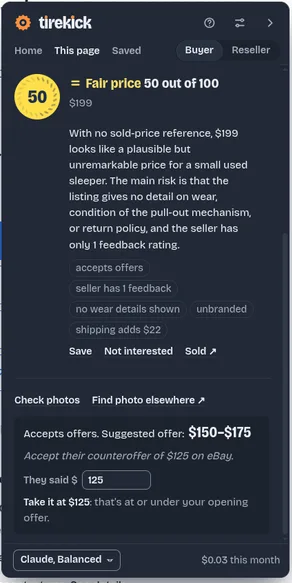
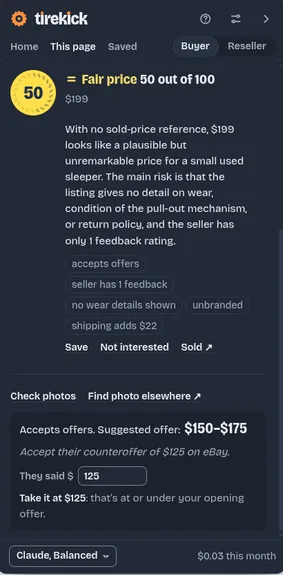
Trim About me and the tagline, drop the fun rule, fix the panel crop, match the buttons
Claude-Session: https://claude.ai/code/session_01XVUCoBzo4LdUY2tYmUbu9p

diff --git a/index.html b/index.html
@@ -34,7 +34,7 @@
         <svg class="db-mark" width="44" height="44" aria-hidden="true"><use href="#mark"/></svg>
         <span>
           <span class="brand-name">dabloonery</span>
-          <span class="brand-sub">small, private software by one developer</span>
+          <span class="brand-sub">small, private software</span>
         </span>
       </a>
       <dl class="banner-stats">
@@ -86,11 +86,9 @@
               <div class="box-body profile">
                 <svg class="db-mark" width="48" height="48" aria-hidden="true"><use href="#mark"/></svg>
                 <div class="profile-text">
-                  <p>I'm one person. I build small software, mostly for myself, and share the ones that hold up. So far that's browser extensions. They run on your computer, don't track you, and the code is open.</p>
-                  <!-- dabloonery: list the actual e-reader and iPod models under "On the shelf" if you want. -->
+                  <p>I build small software, mostly for myself, and share the ones that hold up. So far that's browser extensions. They run on your computer, don't track you, and the code is open.</p>
                   <dl class="profile-facts">
                     <div><dt>Working on</dt><dd>Tirekick, and Sieve after it</dd></div>
-                    <div><dt>On the shelf</dt><dd>Old e-readers and an iPod</dd></div>
                   </dl>
                 </div>
               </div>
@@ -164,7 +162,6 @@
                 <li>No account unless the tool really needs one.</li>
                 <li>A subscription only when there's an ongoing cost, like a server.</li>
                 <li>Open source, Apache 2.0.</li>
-                <li>A small bit of fun somewhere.</li>
               </ol>
             </div>
           </article>
@@ -248,7 +245,7 @@
         <p class="about-name">dabloonery.com</p>
         <p class="db-meta">Version 4 · November 2026</p>
       </div>
-      <p>Small, private software by one developer, made in Albuquerque, NM.</p>
+      <p>Small, private software, made in Albuquerque, NM.</p>
       <p class="db-soft">No cookies, no analytics. Fonts are served from this site.</p>
       <div class="log" id="log" hidden>
         <p class="db-label">Every version of this site</p>

diff --git a/site.css b/site.css
@@ -212,7 +212,7 @@ body { font-size: var(--text-sm); line-height: 1.5; background: var(--sunken); }
 .feature--split .feature-text { flex: 1; padding-bottom: var(--space-3); }
 .peek {
   flex: none; width: 210px; height: 190px; overflow: hidden; align-self: flex-end;
-  border: 1px solid #2c3850; border-bottom: 0; border-right: 0; border-radius: var(--radius-sm) 0 0 0; background: #1c2433;
+  border-radius: var(--radius-sm) 0 0 0; background: #222936; /* the panel's own background, so the crop has no seam */
 }
 .peek img { width: 100%; height: auto; display: block; transition: transform .25s var(--ease, ease); }
 .peek:hover img { transform: translateY(-24px); }
@@ -246,7 +246,7 @@ body { font-size: var(--text-sm); line-height: 1.5; background: var(--sunken); }
 @media (max-width: 560px) {
   .box-row { grid-template-columns: 1fr; }
   .feature--split { padding-right: var(--space-3); }
-  .peek { width: 100%; height: 150px; border-right: 1px solid #2c3850; border-radius: var(--radius-sm) var(--radius-sm) 0 0; }
+  .peek { width: 100%; height: 150px; border-radius: var(--radius-sm) var(--radius-sm) 0 0; }
   .peek img { width: 220px; margin: 0 auto; }
   .banner-stats div { flex: 1 0 40%; }
   .banner-stats div:nth-child(3) { border-left: 0; }
@@ -262,3 +262,10 @@ body { font-size: var(--text-sm); line-height: 1.5; background: var(--sunken); }
 .tk-wordmark .wm-i { position: relative; display: inline-block; }
 .tk-wordmark .wm-i::after { content: ""; position: absolute; left: 50%; top: .075em; width: .19em; height: .19em; margin-left: -.095em; border-radius: 50%; background: #ff8f3a; }
 a.tk-wordmark:hover { text-decoration: none; opacity: .85; }
+
+/* Buttons: every button is the same raised key with a 2px edge that presses down, so Tirekick's
+   button isn't the only raised thing. Tirekick's keeps its own colors and pill shape. */
+.db-btn { box-shadow: inset 0 1px 0 var(--edge-hi), 0 2px 0 var(--line); }
+.db-btn:active { transform: translateY(2px); box-shadow: inset 0 1px 2px rgb(0 0 0 / .25); }
+.db-btn--icon { box-shadow: none; }
+.db-btn--icon:active { transform: none; box-shadow: none; }
